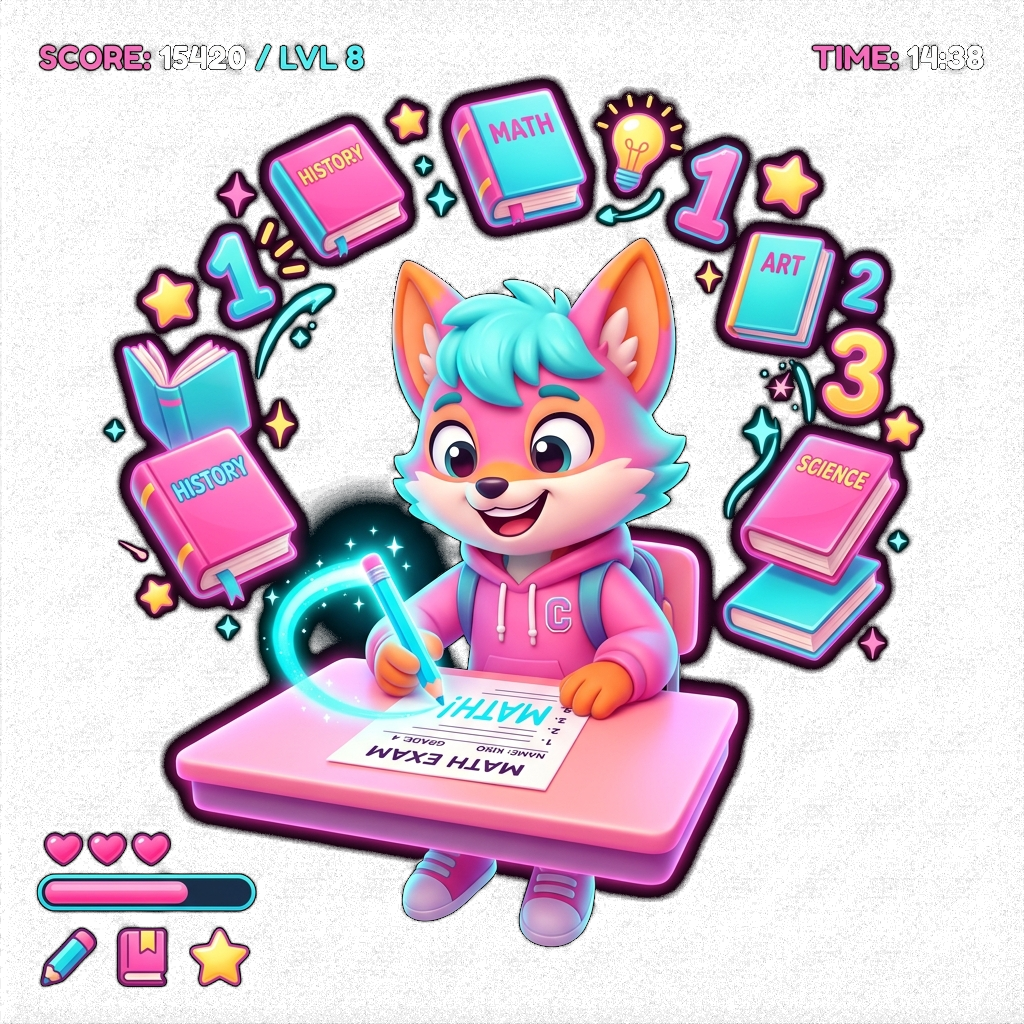
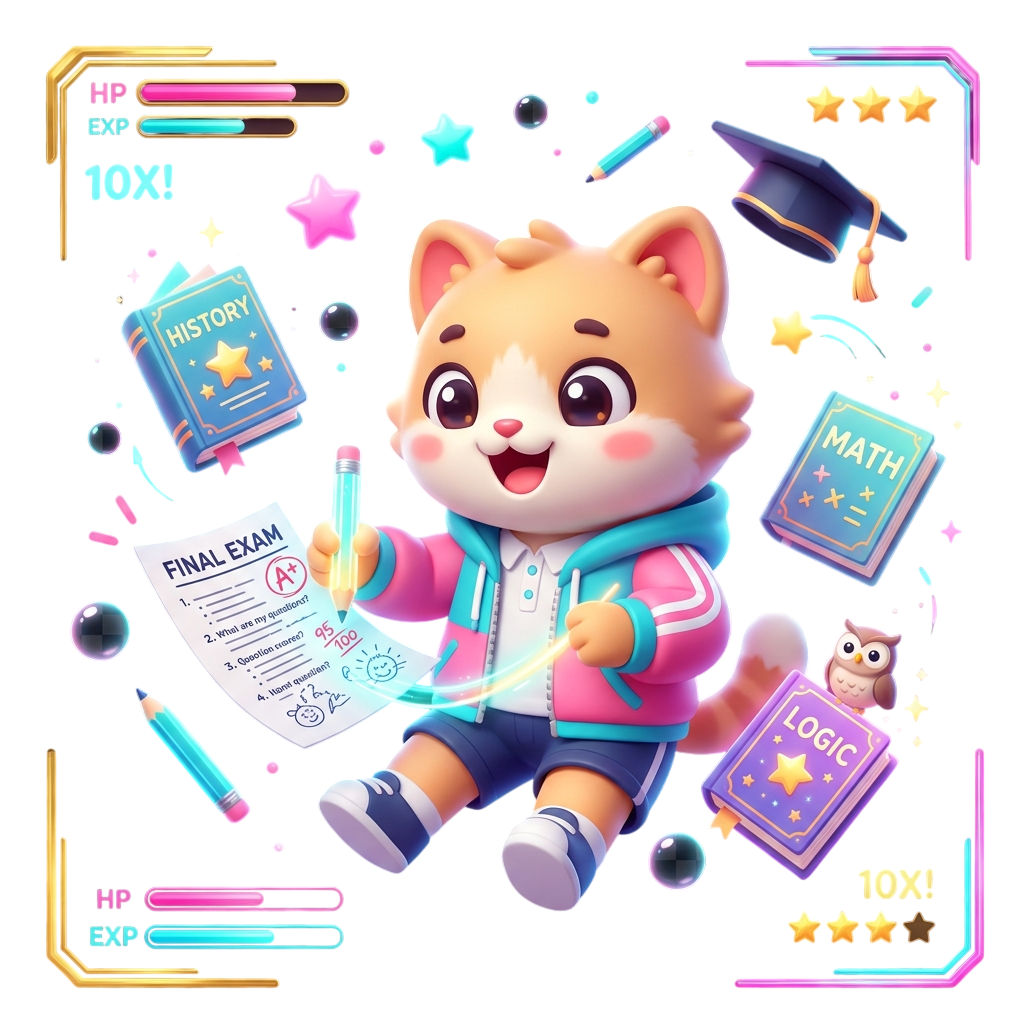
เพิ่มระบบหยุดพักการสอบ (Pause/Resume), ปรับปรุงความปลอดภัยการตรวจจับทุจริต และความปลอดภัยไฟล์อัปโหลด

diff --git a/app/Views/student/exam.php b/app/Views/student/exam.php
@@ -398,6 +398,10 @@
     var keydownBlocker = null;
     var examId = "<?= $examId ?>";
     var statusInterval = null;
+    var isPaused = false;
+    var questionTimeLeft = 0;
+    var pausedSwal = null;
+    var isSubmitting = false;
 
     window.onload = () => {
         attemptFullscreen();
@@ -461,20 +465,28 @@
             initOverallTimer();
         }
 
-        // Periodically check if exam is cancelled or reset by teacher
+        // Periodically check if exam is cancelled, paused, or reset by teacher
         statusInterval = setInterval(async () => {
             if (!isExamActive) return;
             try {
                 const response = await fetch(`/api/exam/status?examId=${examId}`);
                 const res = await response.json();
-                if (res.examStatus !== 'Started' && isExamActive) {
+                const st = res.examStatus;
+
+                if (st === 'Paused') {
+                    if (!isPaused) enterPausedState();
+                    return;
+                }
+                if (isPaused) exitPausedState();
+
+                if (st !== 'Started' && isExamActive) {
                     isExamActive = false;
                     clearInterval(timerInterval);
                     clearInterval(overallTimerInterval);
                     clearInterval(statusInterval);
                     if (blurHandler) window.removeEventListener('blur', blurHandler);
                     if (visibilityHandler) document.removeEventListener('visibilitychange', visibilityHandler);
-                    
+
                     Swal.fire({
                         icon: 'error',
                         title: 'การสอบถูกยกเลิก!',
@@ -611,8 +623,36 @@
         window.addEventListener('keydown', keydownBlocker, true);
     }
 
+    // ===== Pause / Resume (teacher-controlled) =====
+    function enterPausedState() {
+        isPaused = true;
+        clearInterval(timerInterval);
+        clearInterval(overallTimerInterval);
+        pausedSwal = Swal.fire({
+            icon: 'info',
+            title: 'การสอบถูกหยุดชั่วคราว',
+            html: 'คุณครูผู้คุมสอบหยุดการสอบชั่วคราว<br>โปรดรอสักครู่ ระบบจะกลับมาให้ทำข้อสอบต่อโดยอัตโนมัติ',
+            allowOutsideClick: false,
+            allowEscapeKey: false,
+            showConfirmButton: false
+        });
+    }
+
+    function exitPausedState() {
+        isPaused = false;
+        if (pausedSwal) { Swal.close(); pausedSwal = null; }
+        if (!isExamActive) return;
+        if (questionTimeLeft <= 0) questionTimeLeft = 1;
+        startQuestionTimer(questionTimeLeft);
+        if (examDurationSeconds > 0) {
+            initOverallTimer();
+        }
+        attemptFullscreen();
+    }
+
     async function handleCheating(reason) {
         if (!isExamActive) return;
+        if (isPaused) return;
 
         // ป้องกัน False Positive บนมือถือ (เช่น เลื่อนจอใน LINE แล้วเกิด blur แต่หน้าจอยังแสดงอยู่)
         if (typeof reason !== 'string' && document.visibilityState === 'visible') {
@@ -839,10 +879,13 @@
     }
 
     // ===== Timer =====
-    function startQuestionTimer() {
+    function startQuestionTimer(startFrom) {
         clearInterval(timerInterval);
         const currentQ = questions[currentQuestionIndex];
-        let timeLeft = currentQ.type === 'writing' ? timeLimitWriting : timeLimitChoice;
+        let timeLeft = (typeof startFrom === 'number' && startFrom > 0)
+            ? Math.floor(startFrom)
+            : (currentQ.type === 'writing' ? timeLimitWriting : timeLimitChoice);
+        questionTimeLeft = timeLeft;
 
         const timerEl = document.getElementById('timerNumber');
         const timerBox = document.getElementById('questionTimer');
@@ -861,13 +904,14 @@
         }
 
         timerInterval = setInterval(() => {
-            timeLeft--;
-            timerEl.textContent = timeLeft;
-            if (timeLeft <= 10) {
+            questionTimeLeft--;
+            timeLeft = questionTimeLeft;
+            timerEl.textContent = questionTimeLeft;
+            if (questionTimeLeft <= 10) {
                 timerBox.classList.add('warning');
                 timerEl.classList.add('timer-pulse');
             }
-            if (timeLeft <= 0) {
+            if (questionTimeLeft <= 0) {
                 clearInterval(timerInterval);
                 handleTimeOut();
             }
@@ -875,6 +919,7 @@
     }
 
     function handleTimeOut() {
+        if (!isExamActive || isPaused || isSubmitting) return;
         const currentQ = questions[currentQuestionIndex];
         
         if (currentQ.type === 'writing') {
@@ -960,46 +1005,50 @@
         if (!box || !display) return;
 
         box.classList.remove('hidden');
-        
-        function updateDisplay() {
-            if (!isExamActive) {
-                clearInterval(overallTimerInterval);
-                return;
-            }
-            if (overallTimeLeft <= 0) {
-                clearInterval(overallTimerInterval);
-                isExamActive = false;
-                Swal.fire({
-                    icon: 'warning',
-                    title: 'หมดเวลาทำข้อสอบ!',
-                    text: 'หมดเวลาทำข้อสอบรวมแล้ว ระบบกำลังส่งคำตอบของท่านโดยอัตโนมัติ',
-                    allowOutsideClick: false,
-                    confirmButtonText: 'ตกลง'
-                }).then(() => {
-                    collectAnswer();
-                    finishExam();
-                });
-                return;
-            }
+        clearInterval(overallTimerInterval);
+        overallTimerTick();
+        overallTimerInterval = setInterval(overallTimerTick, 1000);
+    }
 
-            const m = Math.floor(overallTimeLeft / 60);
-            const s = overallTimeLeft % 60;
-            display.textContent = m.toString().padStart(2, '0') + ':' + s.toString().padStart(2, '0');
-
-            if (overallTimeLeft <= 60) { // Warning: 1 minute left
-                box.style.borderColor = '#ef4444';
-                display.style.color = '#ef4444';
-                display.classList.add('timer-pulse');
-            }
-
-            overallTimeLeft--;
+    function overallTimerTick() {
+        const box = document.getElementById('overallTimerBox');
+        const display = document.getElementById('overallTimerNumber');
+        if (!box || !display || !isExamActive) {
+            clearInterval(overallTimerInterval);
+            return;
+        }
+        if (overallTimeLeft <= 0) {
+            clearInterval(overallTimerInterval);
+            isExamActive = false;
+            Swal.fire({
+                icon: 'warning',
+                title: 'หมดเวลาทำข้อสอบ!',
+                text: 'หมดเวลาทำข้อสอบรวมแล้ว ระบบกำลังส่งคำตอบของท่านโดยอัตโนมัติ',
+                allowOutsideClick: false,
+                confirmButtonText: 'ตกลง'
+            }).then(() => {
+                collectAnswer();
+                finishExam();
+            });
+            return;
         }
 
-        updateDisplay();
-        overallTimerInterval = setInterval(updateDisplay, 1000);
+        const m = Math.floor(overallTimeLeft / 60);
+        const s = overallTimeLeft % 60;
+        display.textContent = m.toString().padStart(2, '0') + ':' + s.toString().padStart(2, '0');
+
+        if (overallTimeLeft <= 60) { // Warning: 1 minute left
+            box.style.borderColor = '#ef4444';
+            display.style.color = '#ef4444';
+            display.classList.add('timer-pulse');
+        }
+
+        overallTimeLeft--;
     }
 
     async function finishExam() {
+        if (isSubmitting) return;
+        isSubmitting = true;
         isExamActive = false;
         clearInterval(timerInterval);
         clearInterval(overallTimerInterval);
@@ -1035,6 +1084,8 @@
     }
 
     async function finishExamWithCheating(reason) {
+        if (isSubmitting) return;
+        isSubmitting = true;
         isExamActive = false;
         clearInterval(timerInterval);
         clearInterval(overallTimerInterval);

diff --git a/app/Controllers/AdminController.php b/app/Controllers/AdminController.php
@@ -313,6 +313,30 @@ class AdminController extends BaseController
             return $this->respond(['success' => false, 'message' => 'อีเมลยังไม่ได้รับการยืนยันจาก Google'], 400);
         }
 
+        // Validate token audience against the configured Google Client ID
+        $settingModel = new SettingModel();
+        $gsSettings = $settingModel->getSettings();
+        $expectedClientId = trim($gsSettings['Google Client ID'] ?? '');
+
+        if ($expectedClientId === '') {
+            return $this->respond(['success' => false, 'message' => 'ระบบยังไม่ได้ตั้งค่า Google Client ID กรุณาติดต่อผู้ดูแลระบบ'], 500);
+        }
+
+        $aud = $tokenInfo['aud'] ?? '';
+        if (!hash_equals($expectedClientId, (string) $aud)) {
+            return $this->respond(['success' => false, 'message' => 'Google Token ไม่ถูกต้อง (audience mismatch)'], 401);
+        }
+
+        // Reject expired tokens and unexpected issuers
+        if ((int) ($tokenInfo['exp'] ?? 0) < time()) {
+            return $this->respond(['success' => false, 'message' => 'Google Token หมดอายุแล้ว กรุณาเข้าสู่ระบบใหม่'], 401);
+        }
+
+        $iss = $tokenInfo['iss'] ?? '';
+        if (!in_array($iss, ['accounts.google.com', 'https://accounts.google.com'], true)) {
+            return $this->respond(['success' => false, 'message' => 'ผู้ออกโทเคน (issuer) ไม่ถูกต้อง'], 401);
+        }
+
         if (substr($email, -10) !== '@skj.ac.th') {
             return $this->respond(['success' => false, 'message' => 'อนุญาตเฉพาะอีเมลโรงเรียน (@skj.ac.th) เท่านั้น'], 400);
         }
@@ -368,6 +392,28 @@ class AdminController extends BaseController
         if (!$this->session->get('admin_logged_in')) {
             throw new \Exception('Unauthorized', 401);
         }
+    }
+
+    /**
+     * Delete an uploaded image from both the new (public/uploads) and
+     * legacy (root uploads) storage locations.
+     */
+    private static function deleteUploadedImage(string $url): bool
+    {
+        $name = basename($url);
+        if ($name === '' || $name === '.' || $name === '..') {
+            return false;
+        }
+
+        $deleted = false;
+        foreach ([ROOTPATH . 'public/uploads/', ROOTPATH . 'uploads/'] as $dir) {
+            $path = $dir . $name;
+            if (is_file($path)) {
+                @unlink($path);
+                $deleted = !is_file($path);
+            }
+        }
+        return $deleted;
     }
 
     public function getSettings()
@@ -563,7 +609,10 @@ class AdminController extends BaseController
 
             $updateData = ['exam_status' => $status];
             if ($status === 'Started') {
-                $updateData['started_at'] = date('Y-m-d H:i:s');
+                // Preserve the original start time on resume (Paused -> Started)
+                if (empty($exam['started_at'])) {
+                    $updateData['started_at'] = date('Y-m-d H:i:s');
+                }
             } else if ($status === 'Waiting') {
                 $updateData['started_at'] = null;
             }
@@ -724,10 +773,7 @@ class AdminController extends BaseController
             $questionModel = new QuestionModel();
             $question = $questionModel->find($id);
             if ($question && !empty($question['image_url'])) {
-                $filePath = ROOTPATH . 'uploads/' . basename($question['image_url']);
-                if (is_file($filePath)) {
-                    @unlink($filePath);
-                }
+                self::deleteUploadedImage($question['image_url']);
             }
 
             $questionModel->delete($id);
@@ -750,10 +796,7 @@ class AdminController extends BaseController
             $questions = $questionModel->where('exam_id', $examId)->findAll();
             foreach ($questions as $question) {
                 if (!empty($question['image_url'])) {
-                    $filePath = ROOTPATH . 'uploads/' . basename($question['image_url']);
-                    if (is_file($filePath)) {
-                        @unlink($filePath);
-                    }
+                    self::deleteUploadedImage($question['image_url']);
                 }
             }
 
@@ -872,17 +915,19 @@ class AdminController extends BaseController
                 return $this->respond(['success' => false, 'message' => 'Invalid data URI format'], 400);
             }
 
-            $uploadDir = ROOTPATH . 'uploads/';
+            $uploadDir = ROOTPATH . 'public/uploads/';
             if (!is_dir($uploadDir)) {
-                mkdir($uploadDir, 0777, true);
+                mkdir($uploadDir, 0775, true);
             }
 
-            $cleanFileName = preg_replace('/[^a-zA-Z0-9_.-]/', '_', $fileName);
-            if (preg_match('/^[_-]+\.[a-zA-Z0-9]+$/', $cleanFileName) || trim($cleanFileName, ' _.-') === '') {
-                $ext = pathinfo($fileName, PATHINFO_EXTENSION);
-                $cleanFileName = 'image.' . ($ext ?: 'png');
+            // Force a safe image extension from the detected data-URI type and
+            // discard any user-supplied extension to prevent executable uploads (.php etc.)
+            $baseName = preg_replace('/[^a-zA-Z0-9_-]/', '_', pathinfo(trim($fileName), PATHINFO_FILENAME));
+            $baseName = trim($baseName, '_');
+            if ($baseName === '') {
+                $baseName = 'image';
             }
-            $uniqueFileName = time() . '_' . $cleanFileName;
+            $uniqueFileName = time() . '_' . substr($baseName, 0, 80) . '.' . $type;
             $filePath = $uploadDir . $uniqueFileName;
 
             if (file_put_contents($filePath, $data)) {
@@ -902,9 +947,7 @@ class AdminController extends BaseController
             $this->checkAuth();
             $url = $this->request->getPost('url') ?? '';
             if (!empty($url)) {
-                $filePath = ROOTPATH . 'uploads/' . basename($url);
-                if (is_file($filePath)) {
-                    @unlink($filePath);
+                if (self::deleteUploadedImage($url)) {
                     return $this->respond(['success' => true, 'message' => 'ลบไฟล์รูปภาพสำเร็จ']);
                 }
             }
@@ -989,10 +1032,12 @@ class AdminController extends BaseController
                         }
                     }
 
-                    if ($scoreUpdated || $recalculatedScore != $res['score']) {
+                    // Only rewrite when answers_json content actually changed,
+                    // so manually adjusted scores (updateScoreDirect) are preserved.
+                    if ($scoreUpdated) {
                         $res['score'] = $recalculatedScore;
                         $res['answers_json'] = json_encode($answers, JSON_UNESCAPED_UNICODE);
-                        
+
                         $resultModel->update($res['id'], [
                             'score' => $recalculatedScore,
                             'answers_json' => $res['answers_json']

diff --git a/app/Controllers/ExamController.php b/app/Controllers/ExamController.php
@@ -471,12 +471,17 @@ class ExamController extends BaseController
             $answers = json_decode($answers, true);
         }
         $timeSpent = (int) $this->request->getPost('totalTimeSpent');
-        $cheatingFlag = $this->request->getPost('cheatingFlag') ?? 'NO';
-        $cheatingCount = (int) $this->request->getPost('cheatingCount');
 
-        $settingModel = new SettingModel();
-        $settings = $settingModel->getSettings();
-        $apiKey = $settings['Gemini API Key'] ?? '';
+        // Count cheating strikes from server-side logs instead of trusting client input
+        $errorLogModel = new ErrorLogModel();
+        $cheatingCount = $errorLogModel->where('student_email', $email)
+            ->where('exam_id', $examId)
+            ->where('error_type', 'SUSPICIOUS_ACTIVITY')
+            ->countAllResults();
+        $maxStrikes = isset($exam['max_strikes']) && (int) $exam['max_strikes'] > 0
+            ? (int) $exam['max_strikes']
+            : 3;
+        $cheatingFlag = ($cheatingCount >= $maxStrikes) ? 'YES' : 'NO';
 
         $resultModel = new ExamResultModel();
         
@@ -624,7 +629,9 @@ class ExamController extends BaseController
             'total_time_spent' => $timeSpent,
             'attempt_number' => $attemptNumber,
             'cheating_flag' => 'YES',
-            'cheating_count' => (int) ($settings['Max Cheating Strikes'] ?? 3),
+            'cheating_count' => isset($exam['max_strikes']) && (int) $exam['max_strikes'] > 0
+                ? (int) $exam['max_strikes']
+                : (int) ($settings['Max Cheating Strikes'] ?? 3),
             'cheating_reason' => $reason,
             'answers_json' => json_encode([], JSON_UNESCAPED_UNICODE),
             'exam_round' => $exam['exam_round'] ?? '1',
